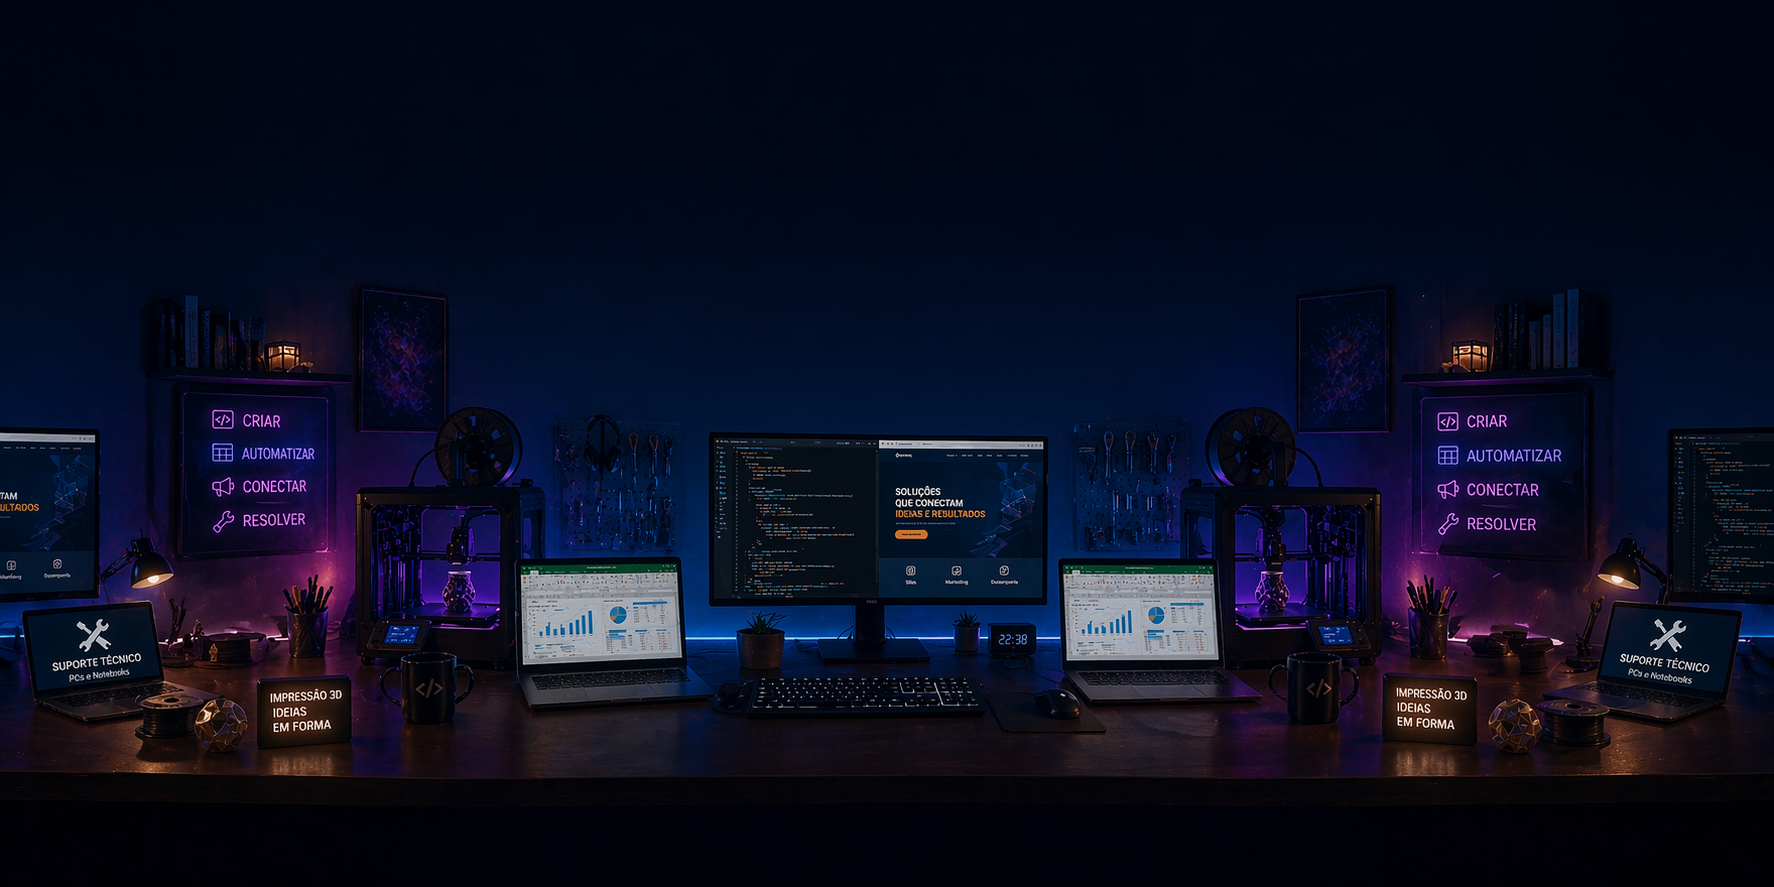
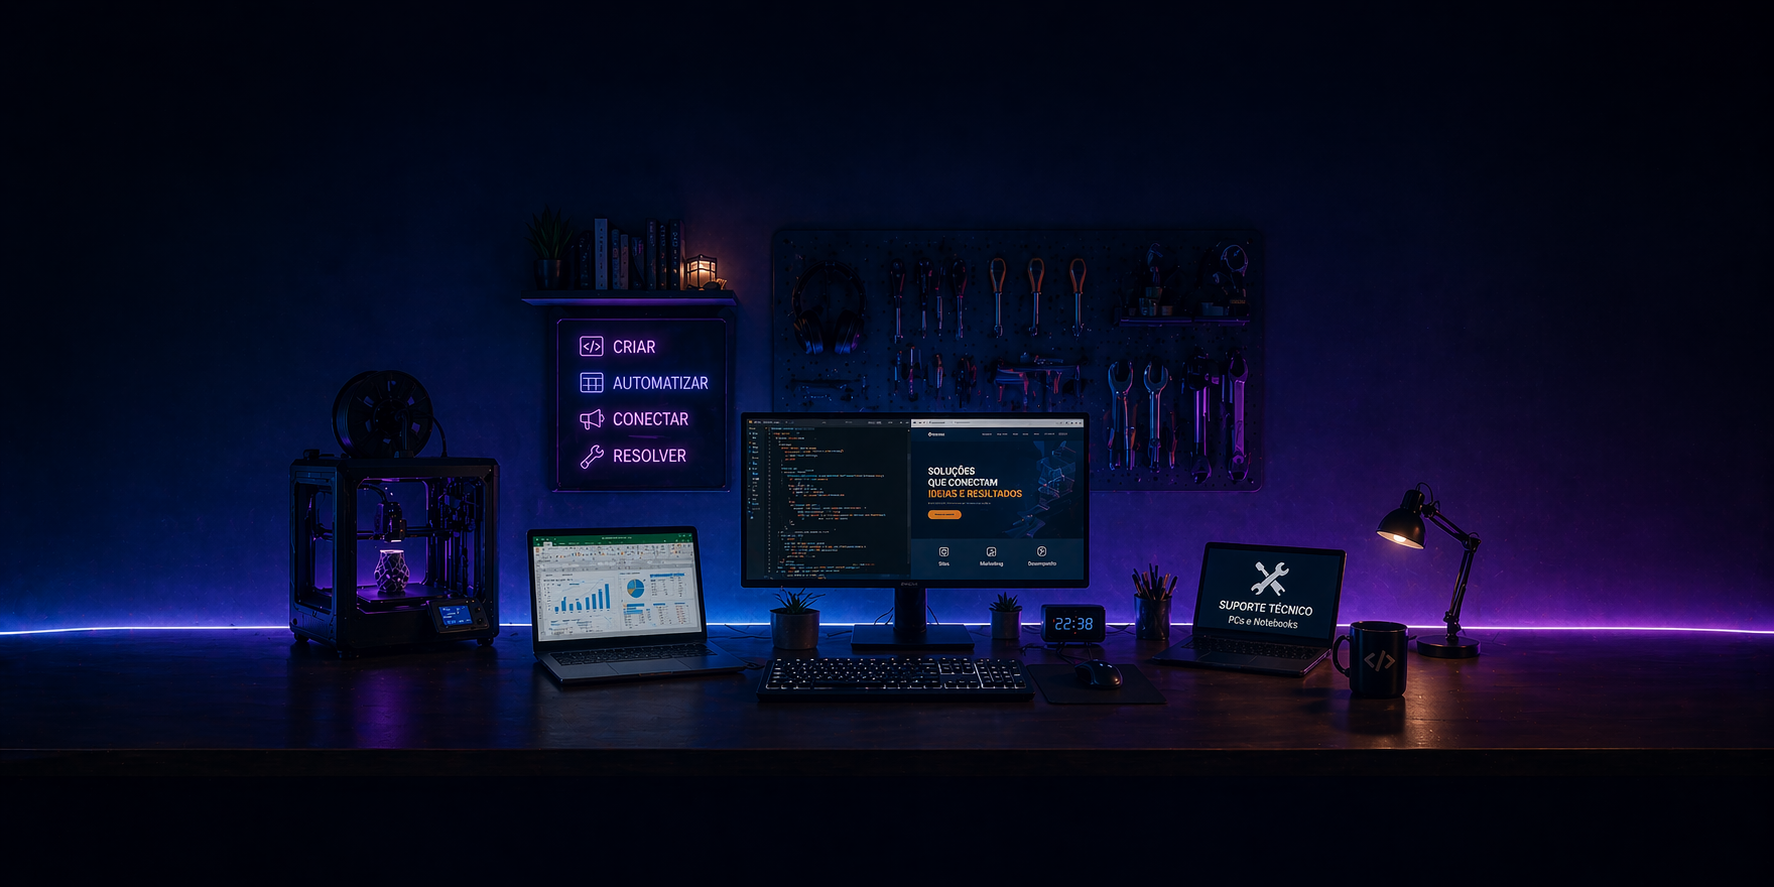
ok

diff --git a/index.html b/index.html
@@ -24,11 +24,11 @@
 						<p>Criação de sites &nbsp;&bull;&nbsp; Automação com Excel &nbsp;&bull;&nbsp; Marketing Digital &nbsp;&bull;&nbsp; Suporte técnico para PCs e notebooks &nbsp;&bull;&nbsp; Impressão 3D</p>
 						<nav>
 							<ul>
-								<li><a href="#" class="icon brands fa-instagram"><span class="label">Instagram</span></a></li>
-								<li><a href="#" class="icon brands fa-facebook-f"><span class="label">Facebook</span></a></li>
+								<li><a href="https://www.instagram.com/fernandosouzaxc/" class="icon brands fa-instagram"><span class="label">Instagram</span></a></li>
+								<li><a href="https://www.facebook.com/fernandosouzaxc" class="icon brands fa-facebook-f"><span class="label">Facebook</span></a></li>
 								<li><a href="#" class="icon brands fa-dribbble"><span class="label">Dribbble</span></a></li>
 								<li><a href="#" class="icon brands fa-github"><span class="label">Github</span></a></li>
-								<li><a href="#" class="icon solid fa-envelope"><span class="label">Email</span></a></li>
+								<li><a href="mailto:fsouza.dev@gmail.com" class="icon solid fa-envelope"><span class="label">Email</span></a></li>
 							</ul>
 						</nav>
 					</header>
